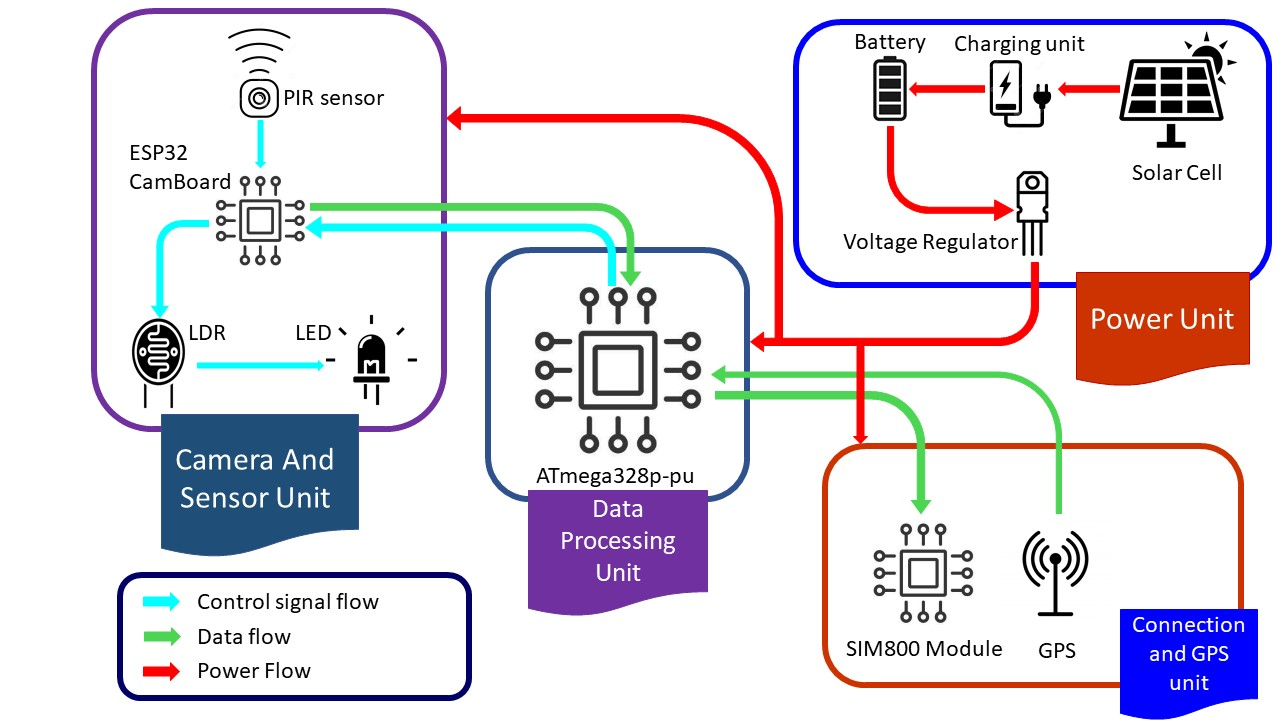
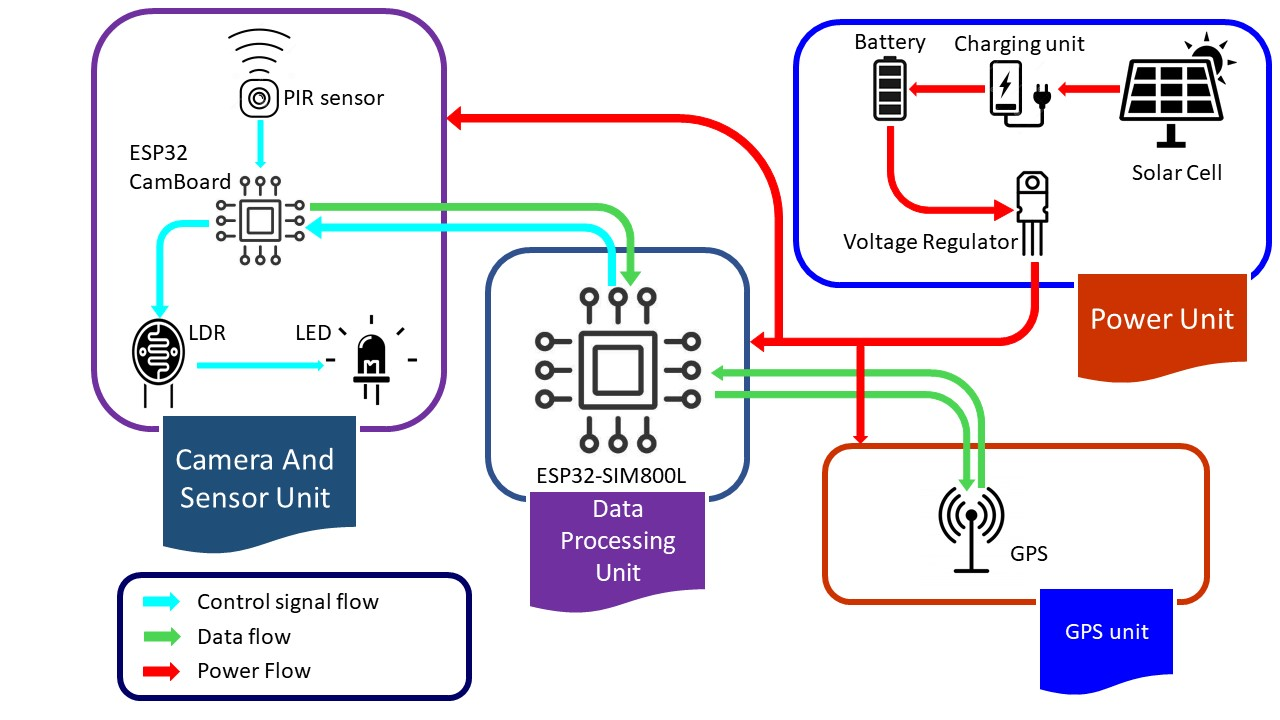
update web page with database schema and new hardware and web app diagrams

diff --git a/docs/index.html b/docs/index.html
@@ -249,11 +249,15 @@
                 </div>
             </div>
             
-             <div style="border-bottom: 25px solid #ffffff;">
-            <h2>Web Application</h2>
+            <div style="border-bottom: 25px solid #ffffff;">
+                <h2>Web Application</h2>
             </div>
 
             <div class="row" id="tabs">
+                <div style="text-align: center; " class="col-lg-12">
+                    <h3 style="padding: 2%;">Organization of the Web App</h3>
+                    <img src="assets/images/web/WebappOrg.jpg" style="padding: 2%;width: 80%;height: 80%;" alt="First">
+                </div>
               <div class="col-lg-4">
                 <ul>
                   <li><a href='#tabs-1' class="demo"><img src="assets/images/tabs-first-icon-wb.png" alt="">Registration</a></li>
@@ -299,6 +303,25 @@
                   </article>
                 </section>
               </div>
+              <div style="text-align: center; " class="col-lg-12">
+                <h3 style="padding: 2%;">Database Schema</h3>
+                <div class="container">
+                    <div class="row">
+                        <div class="col-lg-8">
+                            <img src="assets/images/Database_Schema.png" style="padding: 2%;" alt="database">
+                        </div>
+                        <div class="col-lg-4">
+                            <img src="assets/images/mongodb.png" style="width: 50%;height: 50%;" alt="mongo">
+                            <p style="font-size: 1em;text-align: left;">
+                                &emsp;We use MongoDB as our database managment system. Because of its scalability,
+                                its powerful querying capabilities and the fexibility it provides for modele and
+                                manipulate data structures.
+                            </p>
+                        </div>
+                    </div>
+                </div>
+
+            </div>
             </div>
         </div>
     </section>
@@ -306,13 +329,13 @@
     <!-- ***** Hardware units ***** -->
     <section class="section" id="design">
         <div class="container" style="margin-top: 5%;">
-            <h2>Organization of the Hardware System</h2>
-
+            <h2>Hardware</h2>
+            <h3 style="text-align: center;">Organization of the Hardware System</h3>
             <div class="container">
                 
-                <img src="assets/images/HardwareOrg.jpg" style="width: 100%;" alt="hardware diagram">
+                <img src="assets/images/HardwareOrg.jpg" style="width: 100%;padding: 2%;" alt="hardware diagram">
                 <div style="border-top: 25px solid #ffffff;border-bottom: 25px solid #ffffff;" id="hardware">
-                    <h2>Hardware Implementation</h2>
+                    <h3 style="text-align: center;">Hardware Implementation</h3>
                 </div>
     
                  <div class="row" id="tabs" style="border-bottom: 100px solid #ffffff;">
@@ -401,12 +424,16 @@
                         <div class="container">
                             <div class="row">
                                 <div class="col-lg-6">
-                                    <img src="assets/images/Hardware/datapro.jpg" style="border: 2px solid #555; width: 90%;" alt="Fourth">
+                                    <img src="assets/images/Hardware/SIM800L.jpg" style="border: 2px solid #555; width: 90%;" alt="Fourth">
                                 </div>
                                 <div class="col-lg-6">
                                     <p>
-                                        &emsp;ATmega328p chip will interconnect the above units and control the dataflow in desired manner.
-                                        This Atmega328p chip is low budget, PCB friendly and energy efficient. 
+                                        &emsp;ESP32-SIM800L module is the main component in this unit. It interconnects all the units
+                                        and gathering data from other units to send to the AWS IoT core. This module consist of inbuilt
+                                        SIM800L module which capable of sending and receiving GPRS data without WiFi.
+                                        </br>&emsp;All MQTT certificate and GPS data are stored in inbuilt 4MB flash of ESP32-SIM800L module.
+                                        Stored GPS data are used to check whether there is a defferance between new readings. 
+                                        If there is a difference GPS data is sent to the cloud.
                                     </p>
                                 </div>
                             </div>
@@ -437,54 +464,81 @@
                             <tbody>
                                 <tr>
                                     <td style="font-size:20px"><b>Hardware Component</b></td>
+                                    <td style="font-size:20px"><b>Amount</b></td>
                                     <td style="font-size:20px"><b>Price(Rs)</b></td>
+                                    <td style="font-size:20px"><b>Place</b></td>
                                 </tr>
                                 <tr>
                                     <td>Infrared PIR motion Sensor</td>
-                                    <td>325.00</td>
+                                    <td>1</td>
+                                    <td>235.00</td>
+                                    <td>tronics.lk</td>
                                 </tr>
                                 <tr>
                                     <td>ESP32 Cam Board</td>
+                                    <td>1</td>
                                     <td>1890.00</td>
+                                    <td>tronics.lk</td>
                                 </tr>
                                 <tr>
                                     <td>FTDI connector</td>
+                                    <td>1</td>
                                     <td>470.00</td>
+                                    <td>tronics.lk</td>
                                 </tr>
                                 <tr>
-                                    <td>Sim800L V2.0 GSm GPRS Module</td>
-                                    <td>1790.00</td>
+                                    <td>ESP32-SIM800L module</td>
+                                    <td>1</td>
+                                    <td>3250.00</td>
+                                    <td>tronics.lk</td>
                                 </tr>
                                 <tr>
                                     <td>Ublox NEO_6M GPS module</td>
-                                    <td>1390.00</td>
+                                    <td>1</td>
+                                    <td>985.00</td>
+                                    <td>tronics.lk</td>
                                 </tr>
                                 <tr>
                                     <td>1W LED</td>
-                                    <td>22.00</td>
-                                </tr><tr>
-                                    <td>ATmega328p-pu chip</td>
-                                    <td>375.00</td>
+                                    <td>1</td>
+                                    <td>25.00</td>
+                                    <td>tronics.lk</td>
+                                </tr>
+                                <tr>
+                                    <td>LDR</td>
+                                    <td>1</td>
+                                    <td>10.00</td>
+                                    <td>tronics.lk</td>
                                 </tr>
                                 <tr>
                                     <td>Solar Panel (>6V) 165mA</td>
+                                    <td>1</td>
                                     <td>560.00</td>
+                                    <td>duino.lk</td>
                                 </tr>
                                 <tr>
                                     <td>Battery Charger</td>
-                                    <td>120.00</td>
+                                    <td>1</td>
+                                    <td>90.00</td>
+                                    <td>tronics.lk</td>
                                 </tr>
                                 <tr>
-                                    <td>3.7V 1800mAh batteris*2</td>
-                                    <td>550.00</td>
+                                    <td>3.7V 4800mAh batteris</td>
+                                    <td>2</td>
+                                    <td>700.00</td>
+                                    <td>nilambaraelectronics.com</td>
                                 </tr>
                                 <tr>
                                     <td>Other Expenditures</td>
-                                    <td>1000.00</td>
+                                    <td>-</td>
+                                    <td>1500.00</td>
+                                    <td></td>
                                 </tr>
                                 <tr>
-                                    <td style="font-size:15px"><b>TOTAL</b></td>
-                                    <td style="font-size:15px"><u><b>8402.00</b></u></td>
+                                    <td style="font-size:15px;"><b>TOTAL</b></td>
+                                    <td></td>
+                                    <td style="font-size:15px"><u><b>9715.00</b></u></td>
+                                    <td></td>
                                 </tr>
                             </tbody>
                         </table>
